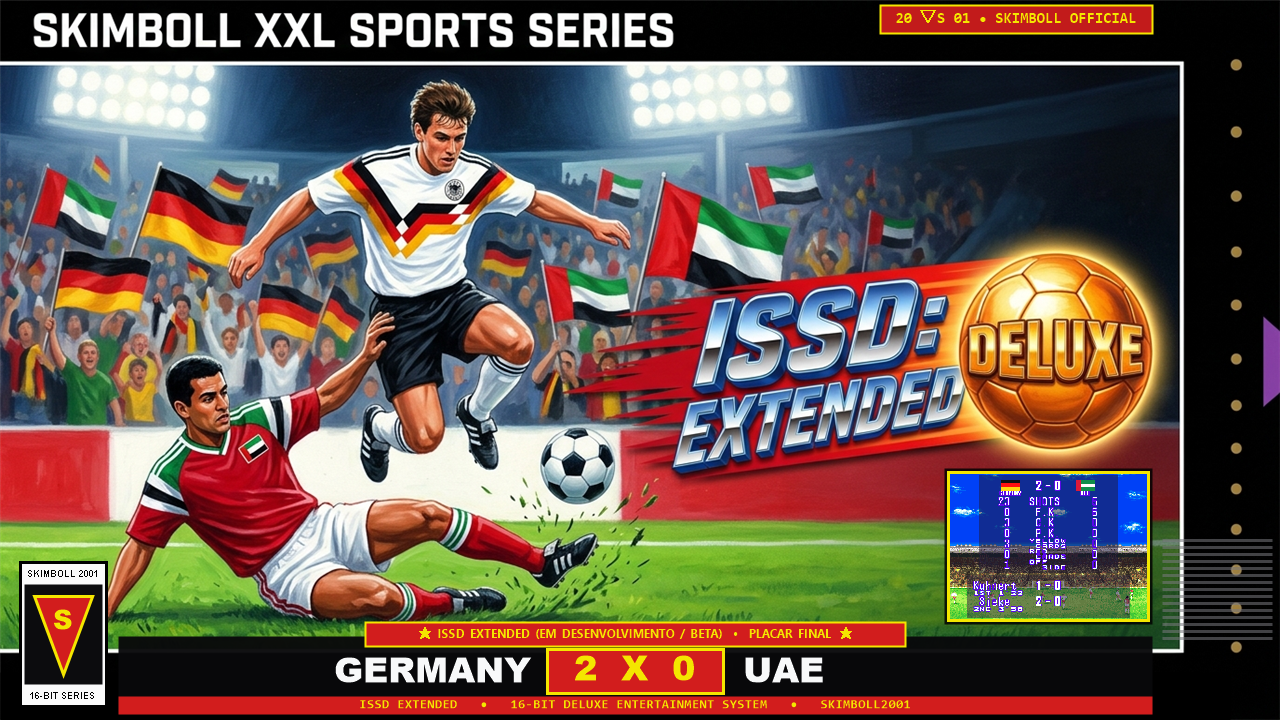
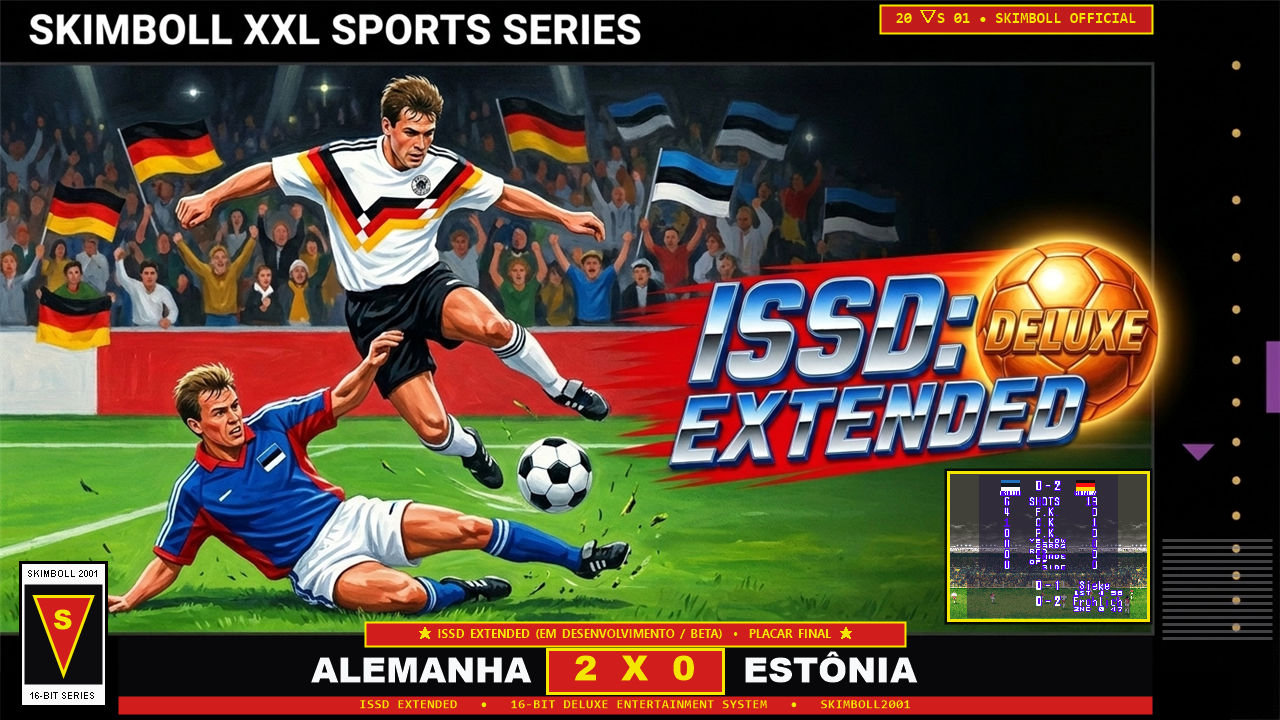
feat(youtube): agenda 4 novas partidas (Futebol Brasileiro 2010, Futbol Argentino 96 e ISSD Extended) com Box-Art 16-Bit

diff --git a/.agents/skills/identidade-visual-skimboll/SKILL.md b/.agents/skills/identidade-visual-skimboll/SKILL.md
@@ -29,6 +29,8 @@ description: >-
    - Arte ilustrada anos 90 estilo pintura acrílica/guache com jogadores disputando a bola no gramado, torcida com bandeiras temáticas ao fundo, título 3D metálico inclinado sobre faixa vermelha de velocidade e a bola dourada **`DELUXE`** à direita:
      - **ISSD Charmoso Gauchão 2026-27:** [bg-boxart-charmoso-gauchao.png](file:///c:/Users/marty/skimboll2001/identidade-visual/03-thumbnails-templates/bg-boxart-charmoso-gauchao.png) (Jogadores gaúchos, bandeiras do Rio Grande do Sul na arquibancada e logo 3D `ISSD: CHARMOSO GAUCHÃO 2026-27`).
      - **ISSD Deutscher Fussball 2026-27:** [bg-boxart-deutscher-fussball.png](file:///c:/Users/marty/skimboll2001/identidade-visual/03-thumbnails-templates/bg-boxart-deutscher-fussball.png) (Jogadores do futebol alemão em disputa no gramado, bandeiras da Alemanha e dos clubes na torcida e logo 3D `ISSD: DEUTSCHER FUSSBALL 2026-27`).
+     - **ISSD Futebol Brasileiro 2010:** [bg-boxart-futebol-brasileiro-2010.png](file:///c:/Users/marty/skimboll2001/identidade-visual/03-thumbnails-templates/bg-boxart-futebol-brasileiro-2010.png) e [bg-boxart-barcelona-x-inter-2010.png](file:///c:/Users/marty/skimboll2001/identidade-visual/03-thumbnails-templates/bg-boxart-barcelona-x-inter-2010.png) (Logo 3D `ISSD: FUTEBOL BRASILEIRO 2010` ao lado da bola dourada `DELUXE`).
+     - **ISSD Fútbol Argentino 96:** [bg-boxart-futbol-argentino-96.png](file:///c:/Users/marty/skimboll2001/identidade-visual/03-thumbnails-templates/bg-boxart-futbol-argentino-96.png) (Logo 3D `ISSD: FÚTBOL ARGENTINO 96` ao lado da bola dourada `DELUXE`).
      - **ISSD Extended:** [bg-boxart-issd-extended.png](file:///c:/Users/marty/skimboll2001/identidade-visual/03-thumbnails-templates/bg-boxart-issd-extended.png) (Seleções globais expandidas em disputa no gramado e logo 3D `ISSD: EXTENDED` ao lado da bola dourada `DELUXE`).
      - **Template Universal ISSD / ROMHACKs:** [bg-boxart-issd-universal.png](file:///c:/Users/marty/skimboll2001/identidade-visual/03-thumbnails-templates/bg-boxart-issd-universal.png) (Permite que o `scripts/youtube.ps1` renderize automaticamente o título 3D metálico inclinado de qualquer jogo/ROMHACK sobre a faixa vermelha: *Champions League*, *Mundial de Clubes*, *Campeonato Brasileiro*, *Futebol Brasileiro*, *Ronaldinho Soccer*, etc.).
    - Moldura preta clássica de caixa 16-bit no topo, na lateral direita (com coluna de pontos dourados, detalhe roxo e grelha listrada inferior) e na base, com `SKIMBOLL XXL SPORTS SERIES` no topo esquerdo, selo `20 ▽S 01 • SKIMBOLL OFFICIAL` no topo direito e selo vertical `SKIMBOLL 2001 / ▽S / 16-BIT SERIES` no canto inferior esquerdo.
